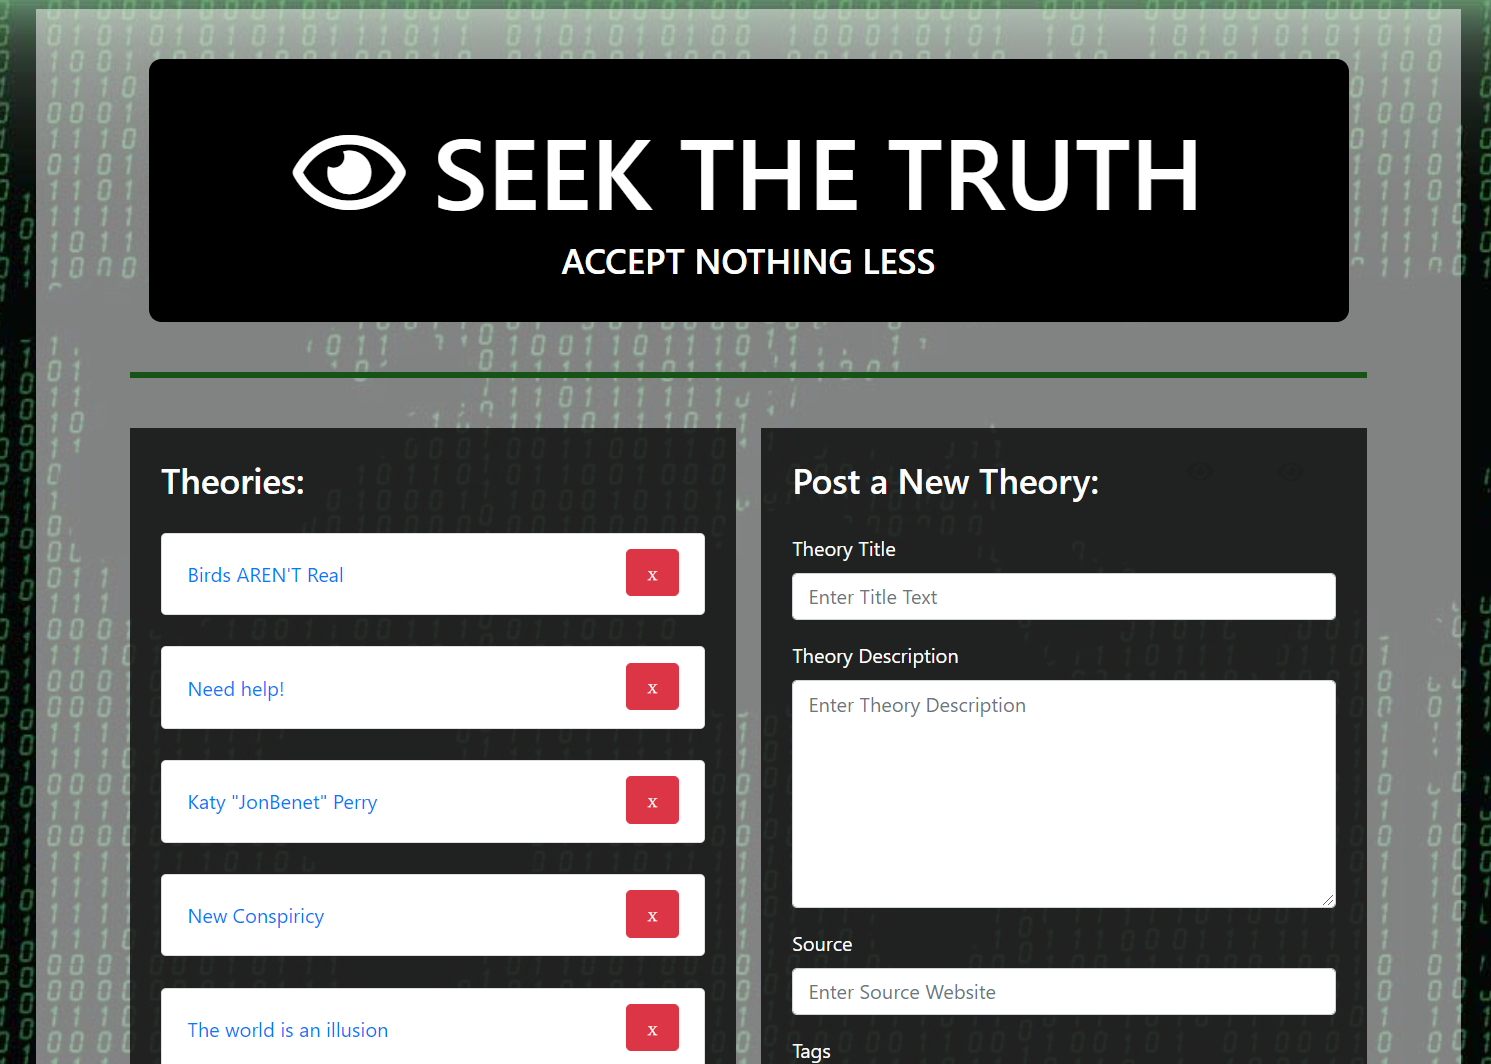
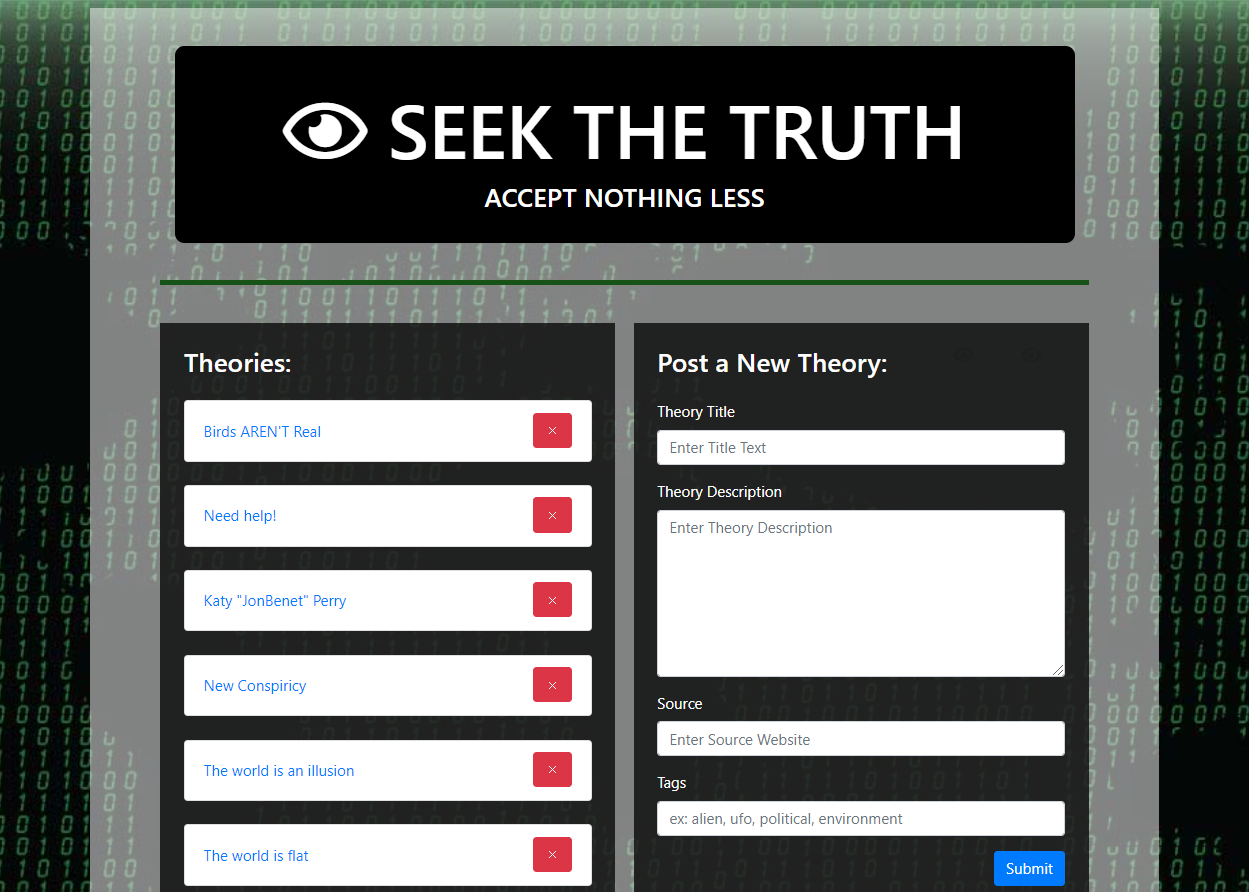
fixed the screenshot to show more of the page

diff --git a/assets/css/style.css b/assets/css/style.css
@@ -161,9 +161,14 @@ h3, h2 {
     border-bottom: 0;
 }
 
-#whereabounds {
+#whereabounds  {
     font-family: 'Prata', serif;
     font-size: 30px;
+}
+
+#seekthetruth {
+    font-family: 'Prata', serif;
+    font-size: 29px;
 }
 
 .portInst {
